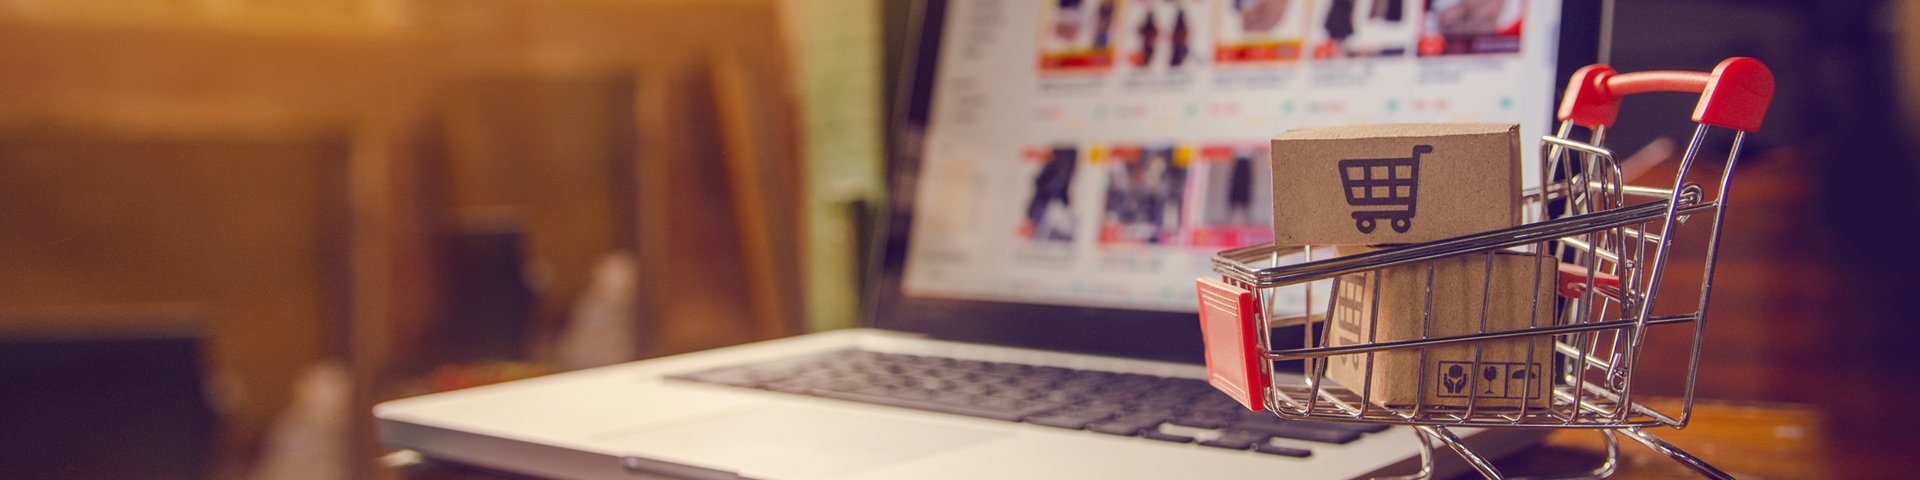
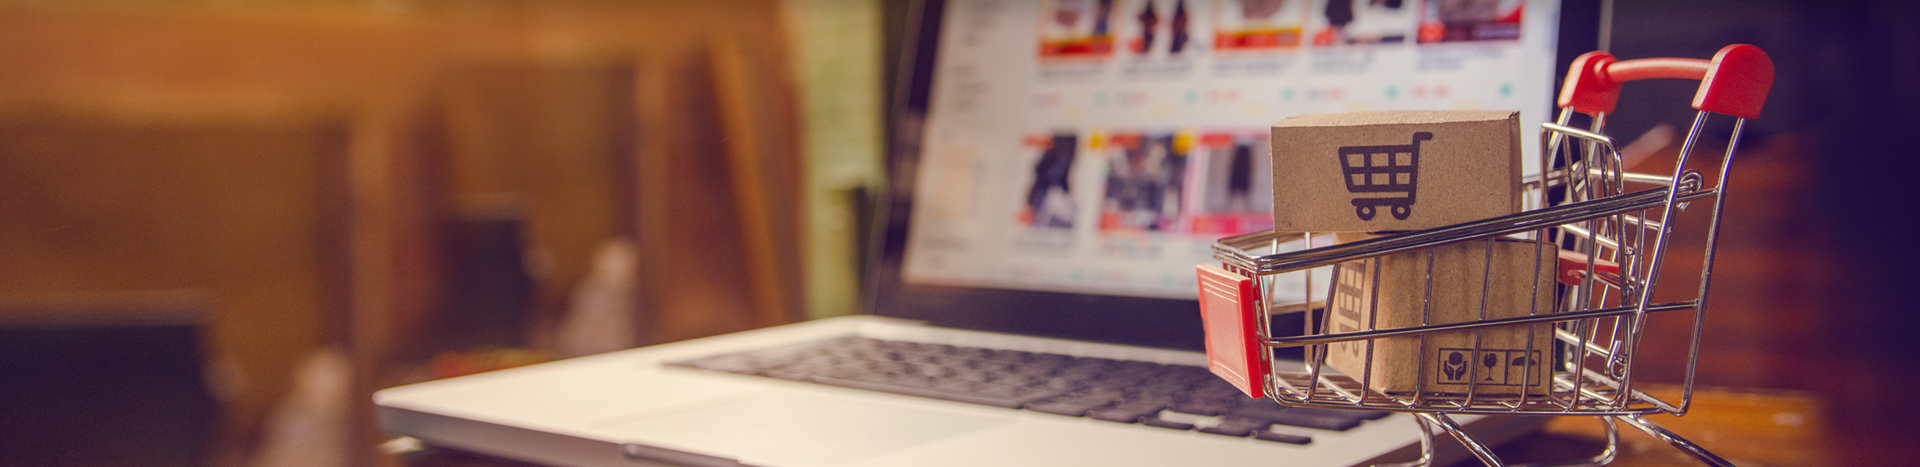
비주얼 이미지 배경으로 수정, 메인 css 반응형 완료

diff --git a/css/scss/cms.scss b/css/scss/cms.scss
@@ -14,7 +14,7 @@ hr { -moz-box-sizing: content-box; box-sizing: content-box; height: 0; }pre { ov
 table { border-collapse: collapse; border-spacing: 0; }td, th { padding: 0; }
 ul, ol { list-style: none outside none; }
 
-img{vertical-align:middle;border:0;-ms-interpolation-mode:bicubic;}
+img{vertical-align:middle;border:0;-ms-interpolation-mode:bicubic; max-width:100%;}
 
 button, input, optgroup, select, textarea { color: inherit; font: inherit; margin: 0; }
 button { overflow: visible; }
@@ -33,20 +33,15 @@ input::-moz-placeholder, textarea::-moz-placeholder { color: #cccccc; }
 input:-ms-input-placeholder, textarea:-ms-input-placeholder { color: #cccccc; }
 input::-webkit-input-placeholder, textarea::-webkit-input-placeholder { color: #cccccc; }
 table { border-collapse: collapse; border-spacing: 0;}
-caption {position:absolute;
-left:-10000px;
-top:auto;
-width:1px;
-height:1px;
-overflow:hidden;}
+
+caption {position:absolute; left:-10000px; top:auto; width:1px; height:1px; overflow:hidden;}
 .blind { position: absolute; width: 1px; height: 1px; padding: 0; margin: -1px; overflow: hidden; clip: rect(0, 0, 0, 0); border: 0; *visibility: hidden; }
+
 
 @font-face {font-family: 'Noto Sans KR';font-style: normal;font-weight: 100;
     src: url(../fonts/NotoSansKR-Thin.woff2) format('woff2'),
     url(../fonts/NotoSansKR-Thin.woff) format('woff'),
     url(../fonts/NotoSansKR-Thin.otf) format('opentype');}
-
-
 
 @font-face {font-family: 'Noto Sans KR';font-style: normal;font-weight: 300;
     src: url(../fonts/NotoSansKR-Light.woff2) format('woff2'),
@@ -90,9 +85,9 @@ overflow:hidden;}
 .break { word-break:break-all; word-wrap:break-word}
 .clearfix:after{content:'\0020';display:block;height:0;clear:both}.clearfix{*zoom:1}
 
-
 /*noScript*/
 .noScript{margin:10px;text-align:center;background:#adb9c4;color:#fff;display:block; height:40px;line-height:40px}
+
 
 #head {position:relative;
     height:150px;text-align:center;
@@ -100,16 +95,19 @@ overflow:hidden;}
     &.sub {box-shadow: 0px 11px 29px 0 rgba(0, 0, 0, 0.22);}
 }
 
-.main_vis {position: relative;
-    .main_vis_txt {position: absolute; left:350px; top:138px;}
+.main_vis {position: relative; height:467px; padding-top: 140px; box-sizing: border-box;
+    background: url(../images/bnr_vis_cms.jpg) no-repeat center/cover;
+    .main_vis_txt {max-width:797px; margin: 0 auto;}
 }
 
 #cont_main {
+    max-width:1903px; margin: 0 auto;
+
     .wrap_product {width:1250px;margin:0 auto;
         h2 {display:block;margin:35px 0 62px; font-weight: 500;font-size:24.5px;letter-spacing:-0.61px;border-bottom:1px solid #dcdcdc}
     }
     .list_product { width:1250px;margin-bottom:80px; overflow: hidden;
-        li {position: relative; margin:15px; max-width:595px; width:50%;  height:101%;
+        li {position: relative; margin:15px; max-width:595px; width:calc(50% - 30px);  height:101%;
         float: left; border: 1px solid #dcdcdc;}
         // li:nth-child(1), li:nth-child(3)  {float:left;}
         // li:nth-child(1), li:nth-child(3)  {margin-right:30px;}
@@ -276,18 +274,21 @@ overflow:hidden;}
 #footer {
     height:200px;padding-top:15px;background:#444;
     .inner {width:1220px;margin:0 auto;}
-    .list_yakwan {display:flex;width:400px;margin:0 auto 25px;
-        li {width:33.3%;border-right:1px solid #c3c3c3;line-height:12px;
-            a {font-size:12px;  color: #c3c3c3;}
+    .list_yakwan {display:flex;width:520px;margin:0 auto 25px;
+        li {width:33.3%;border-right:1px solid #c3c3c3;line-height:12px; text-align: center;
+
+            a {font-size:12px;  color: #c3c3c3; font-weight: 300;}
         }
-        li:nth-child(2) {width:33.4%;text-align:center;}
-        li:nth-child(3) {text-align:right;border-right:none;}
+        li:nth-child(2) {width:33.4%;}
+        li:nth-child(3) {border-right:none;}
     }
     .info {
-        margin:0 0 30px -120px;
-         font-size: 12px; line-height: 1.67;letter-spacing: -0.3px;  color: #c3c3c3;
+        margin:0 0 30px; 
+        font-size: 12px; line-height: 1;letter-spacing: -0.3px;  color: #c3c3c3; font-weight: 300;
+        li {padding-bottom: 8px;
+            &:last-child {padding-bottom: 0;}}
     }
-    .copyright {font-size:12px;color:#bbc3c3;text-align:center;}
+    .copyright {font-size:12px;color:#bbc3c3;text-align:center; font-weight:300}
 
 }
 
@@ -352,47 +353,44 @@ overflow:hidden;}
       p { background:url('../images/wrap_pop_sign3.png') no-repeat center top; background-size:48px 48px;}
   }
 }
-@media (max-width: 767px) {
 
-}
-@media (max-width: 1119px) {
-    #head, #cont_main, #head h1, #cont_main .wrap_product, 
+@media (max-width: 1249px) {
+    #head, #cont_main, #head h1, 
      .wrap_cms_info, .box_preview  .inner, 
      .wrap_cms_use, #footer .inner, .main_vis img, 
      #footer .list_yakwan {width:100% !important;}
-     #cont_main .list_product li {margin:0 !important;
+     #cont_main .list_product li {//margin:0 !important;
         img {max-width:100%;}
      }
 
-     #head {height:50px;
-        h1 {line-height:50px; 
-            img {height:19px}
+     #head {height:100px;
+        h1 {line-height:100px; 
+            img {height:38px}
         }
     }
     .main_vis {
-        height:156px;
-        background:url('../images/bnr_vis_cms.jpg') no-repeat center center;
-        background-size:cover;
+        height:280px; padding-top: 0;
         
-        .main_vis_txt {left:0; top:50%; margin-top: -45px;}
-    
+        .main_vis_txt {position: absolute; left:50%; top:50%; margin-top: -100px; margin-left:-383px}
     }
-    #cont_main .wrap_product h2 {
-        width:90%;
-        margin:12px auto 20px;font-size:20px;
+
+    #cont_main .wrap_product {
+        width:calc(100% - 30px); margin: 0 auto;
+
+        h2 {width:90%; margin:23px auto 20px;font-size:20px;}
     }
+
+   
     #cont_main .list_product {
         width:90%;margin:0 auto 50px;
 
         h3 {font-size: 18px;}
-        li {float:none !important;
-            margin-top:10px  !important;
-            max-width:initial;
-            width:100%;
-            &:last-child{margin-bottom:50px;}
+        .warning {height:290px;
+            .warning_message {font-size:16px;}
+            img {width:31%;}
         }
 
-        .cscenter {height:280px;
+        .cscenter {height:290px;
             .working .tit {font-size: 20px;}
             .hour_txt {font-size: 14px;}
             .working .center_nbr  {font-size: 30px;}
@@ -402,15 +400,12 @@ overflow:hidden;}
             .pro_name, .pro_price {font-size: 16px;}
             .pro_intro {font-size: 14px;}
         }
-
-        .warning .warning_message {font-size:16px;
-
-        }
     }
+
+
     #cont .wrap_cms_info {margin-top:17px;}
     #cont .txt_info {width:90%;margin:0 auto;}
-    #cont .total_info {
-        display:block;
+    #cont .total_info {display:block;
         img {width:100%}
     }
     #cont .wrap_btn_area .btn {width:50%;height:40px;}
@@ -503,5 +498,25 @@ overflow:hidden;}
     }
     .pop_cms.type2 .cont {height:calc(100vh - 218px);
     
+    }
+}
+
+@media (max-width:720px) {
+    #head {height:50px;
+        h1 {line-height:50px; 
+            img {height:19px}
+        }
+    }
+
+    .main_vis {
+        height:154px;        
+        .main_vis_txt {position: relative; left:0; top:0; margin: 0 auto; width:90%; padding-top: 10px;}
+    }
+
+    #cont_main .list_product {
+        margin:0 auto 30px; 
+        li {float: none; width:100%; margin: 0 0 30px;}
+
+        .warning {height:auto;}
     }
 }

diff --git a/css/cms.css b/css/cms.css
@@ -38,7 +38,7 @@ td, th { padding: 0; }
 
 ul, ol { list-style: none outside none; }
 
-img { vertical-align: middle; border: 0; -ms-interpolation-mode: bicubic; }
+img { vertical-align: middle; border: 0; -ms-interpolation-mode: bicubic; max-width: 100%; }
 
 button, input, optgroup, select, textarea { color: inherit; font: inherit; margin: 0; }
 
@@ -122,9 +122,11 @@ caption { position: absolute; left: -10000px; top: auto; width: 1px; height: 1px
 
 #head.sub { -webkit-box-shadow: 0px 11px 29px 0 rgba(0, 0, 0, 0.22); box-shadow: 0px 11px 29px 0 rgba(0, 0, 0, 0.22); }
 
-.main_vis { position: relative; }
+.main_vis { position: relative; height: 467px; padding-top: 140px; -webkit-box-sizing: border-box; box-sizing: border-box; background: url(../images/bnr_vis_cms.jpg) no-repeat center/cover; }
 
-.main_vis .main_vis_txt { position: absolute; left: 350px; top: 138px; }
+.main_vis .main_vis_txt { max-width: 797px; margin: 0 auto; }
+
+#cont_main { max-width: 1903px; margin: 0 auto; }
 
 #cont_main .wrap_product { width: 1250px; margin: 0 auto; }
 
@@ -132,7 +134,7 @@ caption { position: absolute; left: -10000px; top: auto; width: 1px; height: 1px
 
 #cont_main .list_product { width: 1250px; margin-bottom: 80px; overflow: hidden; }
 
-#cont_main .list_product li { position: relative; margin: 15px; max-width: 595px; width: 50%; height: 101%; float: left; border: 1px solid #dcdcdc; }
+#cont_main .list_product li { position: relative; margin: 15px; max-width: 595px; width: calc(50% - 30px); height: 101%; float: left; border: 1px solid #dcdcdc; }
 
 #cont_main .list_product h3 { padding: 21px 22px 0; font-family: '국민체조', sans-serif; font-weight: bolder; color: #00baff; font-size: 37px; }
 
@@ -332,19 +334,23 @@ caption { position: absolute; left: -10000px; top: auto; width: 1px; height: 1px
 
 #footer .inner { width: 1220px; margin: 0 auto; }
 
-#footer .list_yakwan { display: -webkit-box; display: -ms-flexbox; display: flex; width: 400px; margin: 0 auto 25px; }
+#footer .list_yakwan { display: -webkit-box; display: -ms-flexbox; display: flex; width: 520px; margin: 0 auto 25px; }
 
-#footer .list_yakwan li { width: 33.3%; border-right: 1px solid #c3c3c3; line-height: 12px; }
+#footer .list_yakwan li { width: 33.3%; border-right: 1px solid #c3c3c3; line-height: 12px; text-align: center; }
 
-#footer .list_yakwan li a { font-size: 12px; color: #c3c3c3; }
+#footer .list_yakwan li a { font-size: 12px; color: #c3c3c3; font-weight: 300; }
 
-#footer .list_yakwan li:nth-child(2) { width: 33.4%; text-align: center; }
+#footer .list_yakwan li:nth-child(2) { width: 33.4%; }
 
-#footer .list_yakwan li:nth-child(3) { text-align: right; border-right: none; }
+#footer .list_yakwan li:nth-child(3) { border-right: none; }
 
-#footer .info { margin: 0 0 30px -120px; font-size: 12px; line-height: 1.67; letter-spacing: -0.3px; color: #c3c3c3; }
+#footer .info { margin: 0 0 30px; font-size: 12px; line-height: 1; letter-spacing: -0.3px; color: #c3c3c3; font-weight: 300; }
 
-#footer .copyright { font-size: 12px; color: #bbc3c3; text-align: center; }
+#footer .info li { padding-bottom: 8px; }
+
+#footer .info li:last-child { padding-bottom: 0; }
+
+#footer .copyright { font-size: 12px; color: #bbc3c3; text-align: center; font-weight: 300; }
 
 /* 팝업 */
 .pop_cms { width: 960px; }
@@ -391,26 +397,26 @@ caption { position: absolute; left: -10000px; top: auto; width: 1px; height: 1px
 
 .wrap_pop.sign3 p { background: url("../images/wrap_pop_sign3.png") no-repeat center top; background-size: 48px 48px; }
 
-@media (max-width: 1119px) { #head, #cont_main, #head h1, #cont_main .wrap_product, .wrap_cms_info, .box_preview .inner, .wrap_cms_use, #footer .inner, .main_vis img, #footer .list_yakwan { width: 100% !important; }
-  #cont_main .list_product li { margin: 0 !important; }
+@media (max-width: 1249px) { #head, #cont_main, #head h1, .wrap_cms_info, .box_preview .inner, .wrap_cms_use, #footer .inner, .main_vis img, #footer .list_yakwan { width: 100% !important; }
   #cont_main .list_product li img { max-width: 100%; }
-  #head { height: 50px; }
-  #head h1 { line-height: 50px; }
-  #head h1 img { height: 19px; }
-  .main_vis { height: 156px; background: url("../images/bnr_vis_cms.jpg") no-repeat center center; background-size: cover; }
-  .main_vis .main_vis_txt { left: 0; top: 50%; margin-top: -45px; }
-  #cont_main .wrap_product h2 { width: 90%; margin: 12px auto 20px; font-size: 20px; }
+  #head { height: 100px; }
+  #head h1 { line-height: 100px; }
+  #head h1 img { height: 38px; }
+  .main_vis { height: 280px; padding-top: 0; }
+  .main_vis .main_vis_txt { position: absolute; left: 50%; top: 50%; margin-top: -100px; margin-left: -383px; }
+  #cont_main .wrap_product { width: calc(100% - 30px); margin: 0 auto; }
+  #cont_main .wrap_product h2 { width: 90%; margin: 23px auto 20px; font-size: 20px; }
   #cont_main .list_product { width: 90%; margin: 0 auto 50px; }
   #cont_main .list_product h3 { font-size: 18px; }
-  #cont_main .list_product li { float: none !important; margin-top: 10px  !important; max-width: initial; width: 100%; }
-  #cont_main .list_product li:last-child { margin-bottom: 50px; }
-  #cont_main .list_product .cscenter { height: 280px; }
+  #cont_main .list_product .warning { height: 290px; }
+  #cont_main .list_product .warning .warning_message { font-size: 16px; }
+  #cont_main .list_product .warning img { width: 31%; }
+  #cont_main .list_product .cscenter { height: 290px; }
   #cont_main .list_product .cscenter .working .tit { font-size: 20px; }
   #cont_main .list_product .cscenter .hour_txt { font-size: 14px; }
   #cont_main .list_product .cscenter .working .center_nbr { font-size: 30px; }
   #cont_main .list_product .product_cont .pro_name, #cont_main .list_product .product_cont .pro_price { font-size: 16px; }
   #cont_main .list_product .product_cont .pro_intro { font-size: 14px; }
-  #cont_main .list_product .warning .warning_message { font-size: 16px; }
   #cont .wrap_cms_info { margin-top: 17px; }
   #cont .txt_info { width: 90%; margin: 0 auto; }
   #cont .total_info { display: block; }
@@ -483,4 +489,13 @@ caption { position: absolute; left: -10000px; top: auto; width: 1px; height: 1px
   .pop_cms .bottom .area_sign { width: 50%; height: 100%; line-height: 56px; }
   .pop_cms .bottom .btn_save { width: calc(100% - 50% - 10px); height: auto; margin-left: 10px; }
   .pop_cms.type2 .cont { height: calc(100vh - 218px); } }
+
+@media (max-width: 720px) { #head { height: 50px; }
+  #head h1 { line-height: 50px; }
+  #head h1 img { height: 19px; }
+  .main_vis { height: 154px; }
+  .main_vis .main_vis_txt { position: relative; left: 0; top: 0; margin: 0 auto; width: 90%; padding-top: 10px; }
+  #cont_main .list_product { margin: 0 auto 30px; }
+  #cont_main .list_product li { float: none; width: 100%; margin: 0 0 30px; }
+  #cont_main .list_product .warning { height: auto; } }
 /*# sourceMappingURL=cms.css.map */

diff --git a/cms.html b/cms.html
@@ -11,8 +11,7 @@
         <h1><img src="./images/logo_cms.png" alt="CMS Pro shop" /></h1>
     </div>
     <div id="cont_main">
-        <div class="main_vis">
-            <img src="./images/bnr_vis_cms.jpg" />
+        <div class="main_vis">            
             <p class="main_vis_txt"><img src="./images/bnr_vis_txt.png" alt="쇼핑몰? CMS Pro로 손쉽게 만드세요! CMS Pro는 최적화된 반응형 쇼핑몰 Source Code입니다."/></p>            
         </div>
         <div class="wrap_product">
